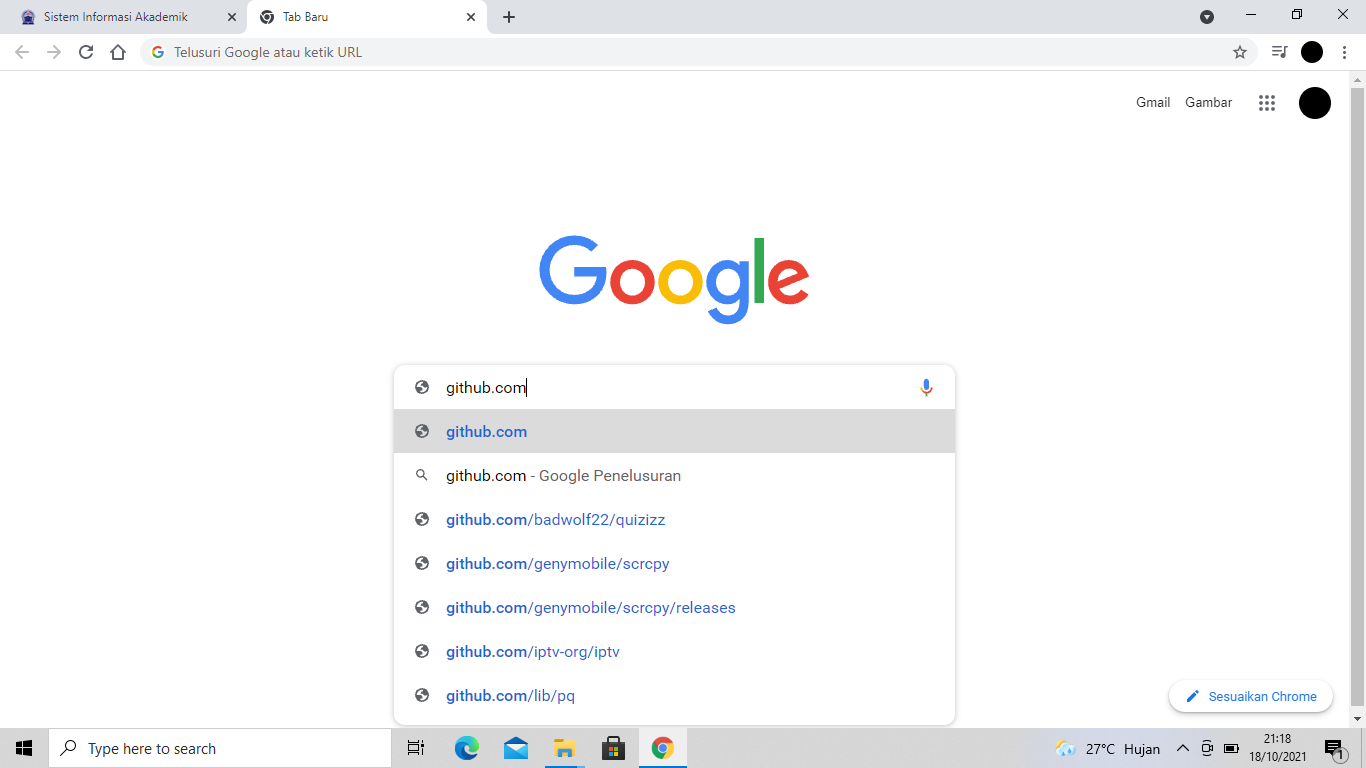
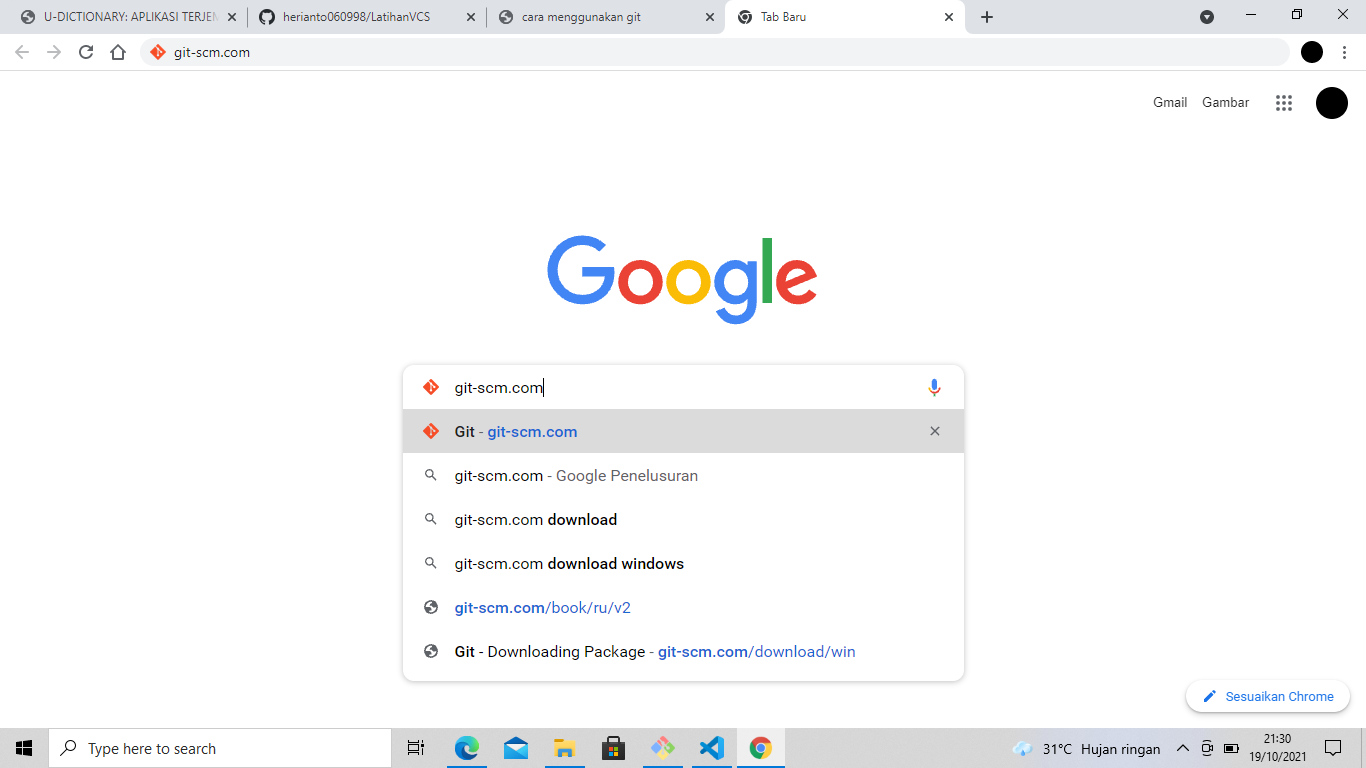
perubahan ss2

diff --git a/README.md b/README.md
@@ -2,14 +2,16 @@
 ## Tampilan gambar dan penjelasan
 
 ### PROSES MENGINSTAL GIT
-ketik pada kolom pencarian di google git-scm.com<p>
+ketik di kolom pencarian di google git-scm.com <p>
 ini adalah tampilannya
 ![Gambar1](tab_screenshoot/ss1.png.png)
 
+### PROSES MENGINSTAL GIT
 jika sudah muncul pada menu lalu klik "download"<p>
 ini adalah tampilannya
 ![Gambar2](tab_screenshoot/ss2.png.png)
 
+### PROSES MENGINSTAL GIT
 jika sudah di klik tinggal menunnggu proses download<p>
 ini adalah tampilannya
 ![Gambar3](tab_screenshoot/ss3.png.png)
